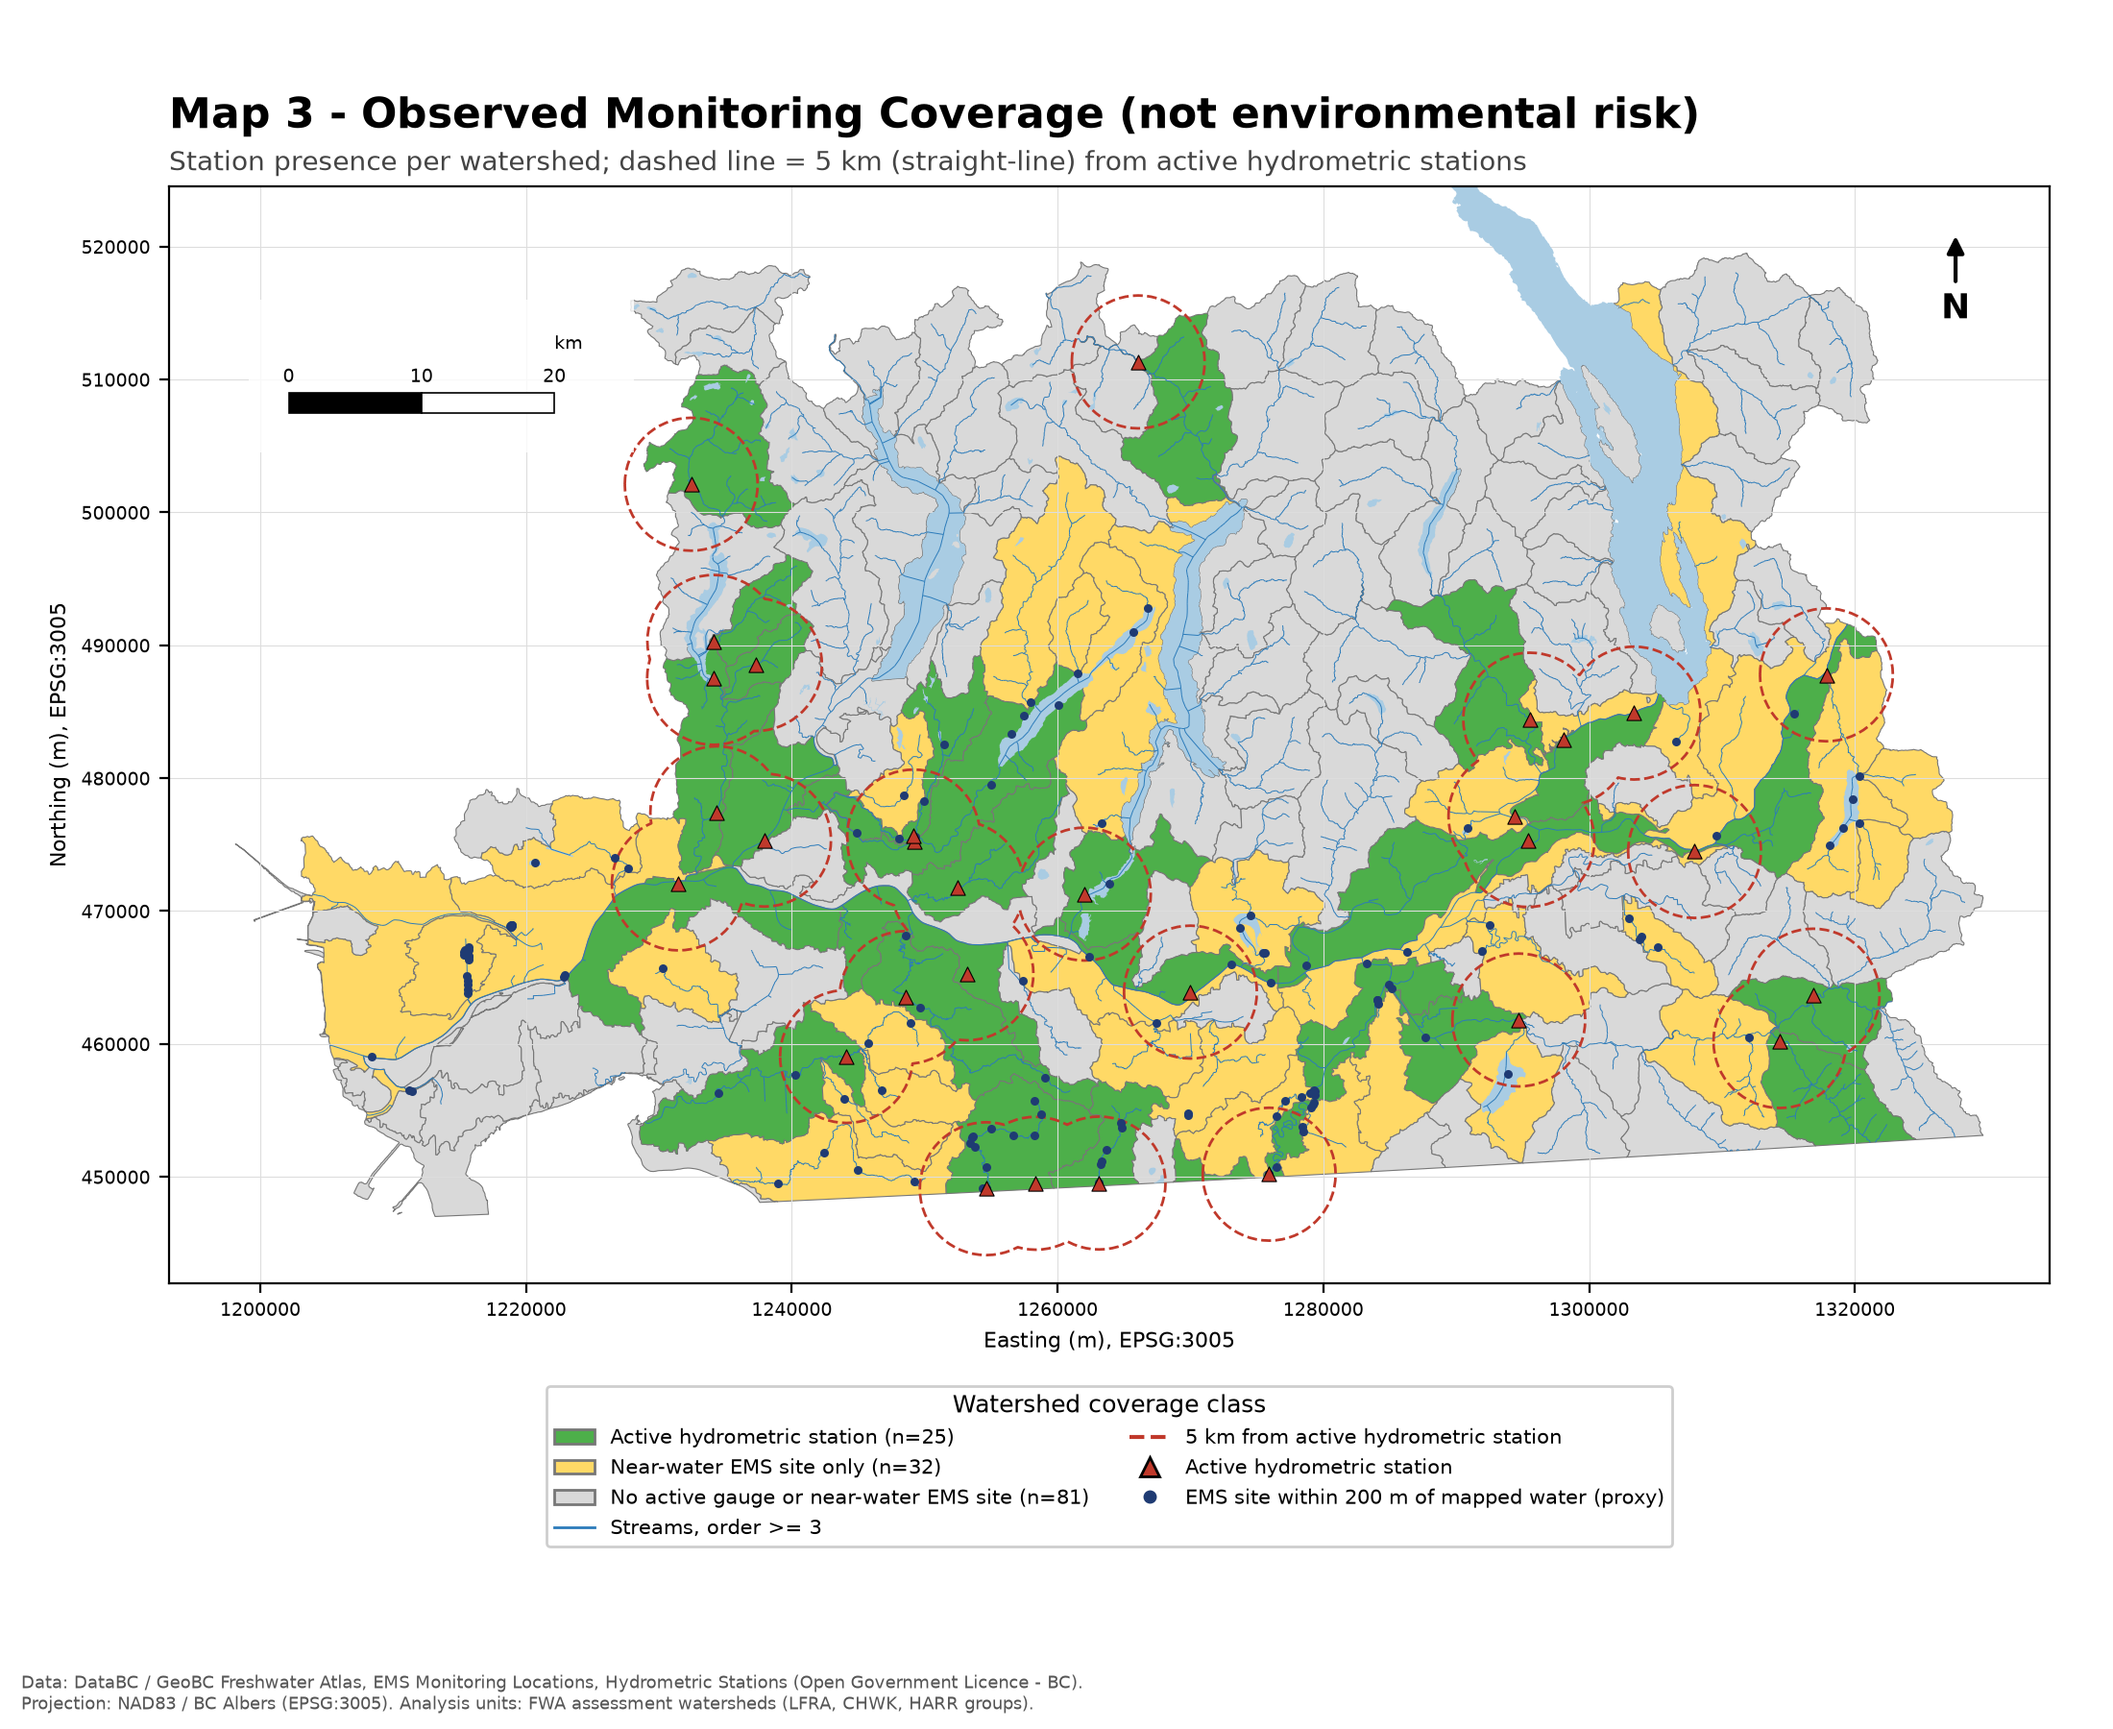
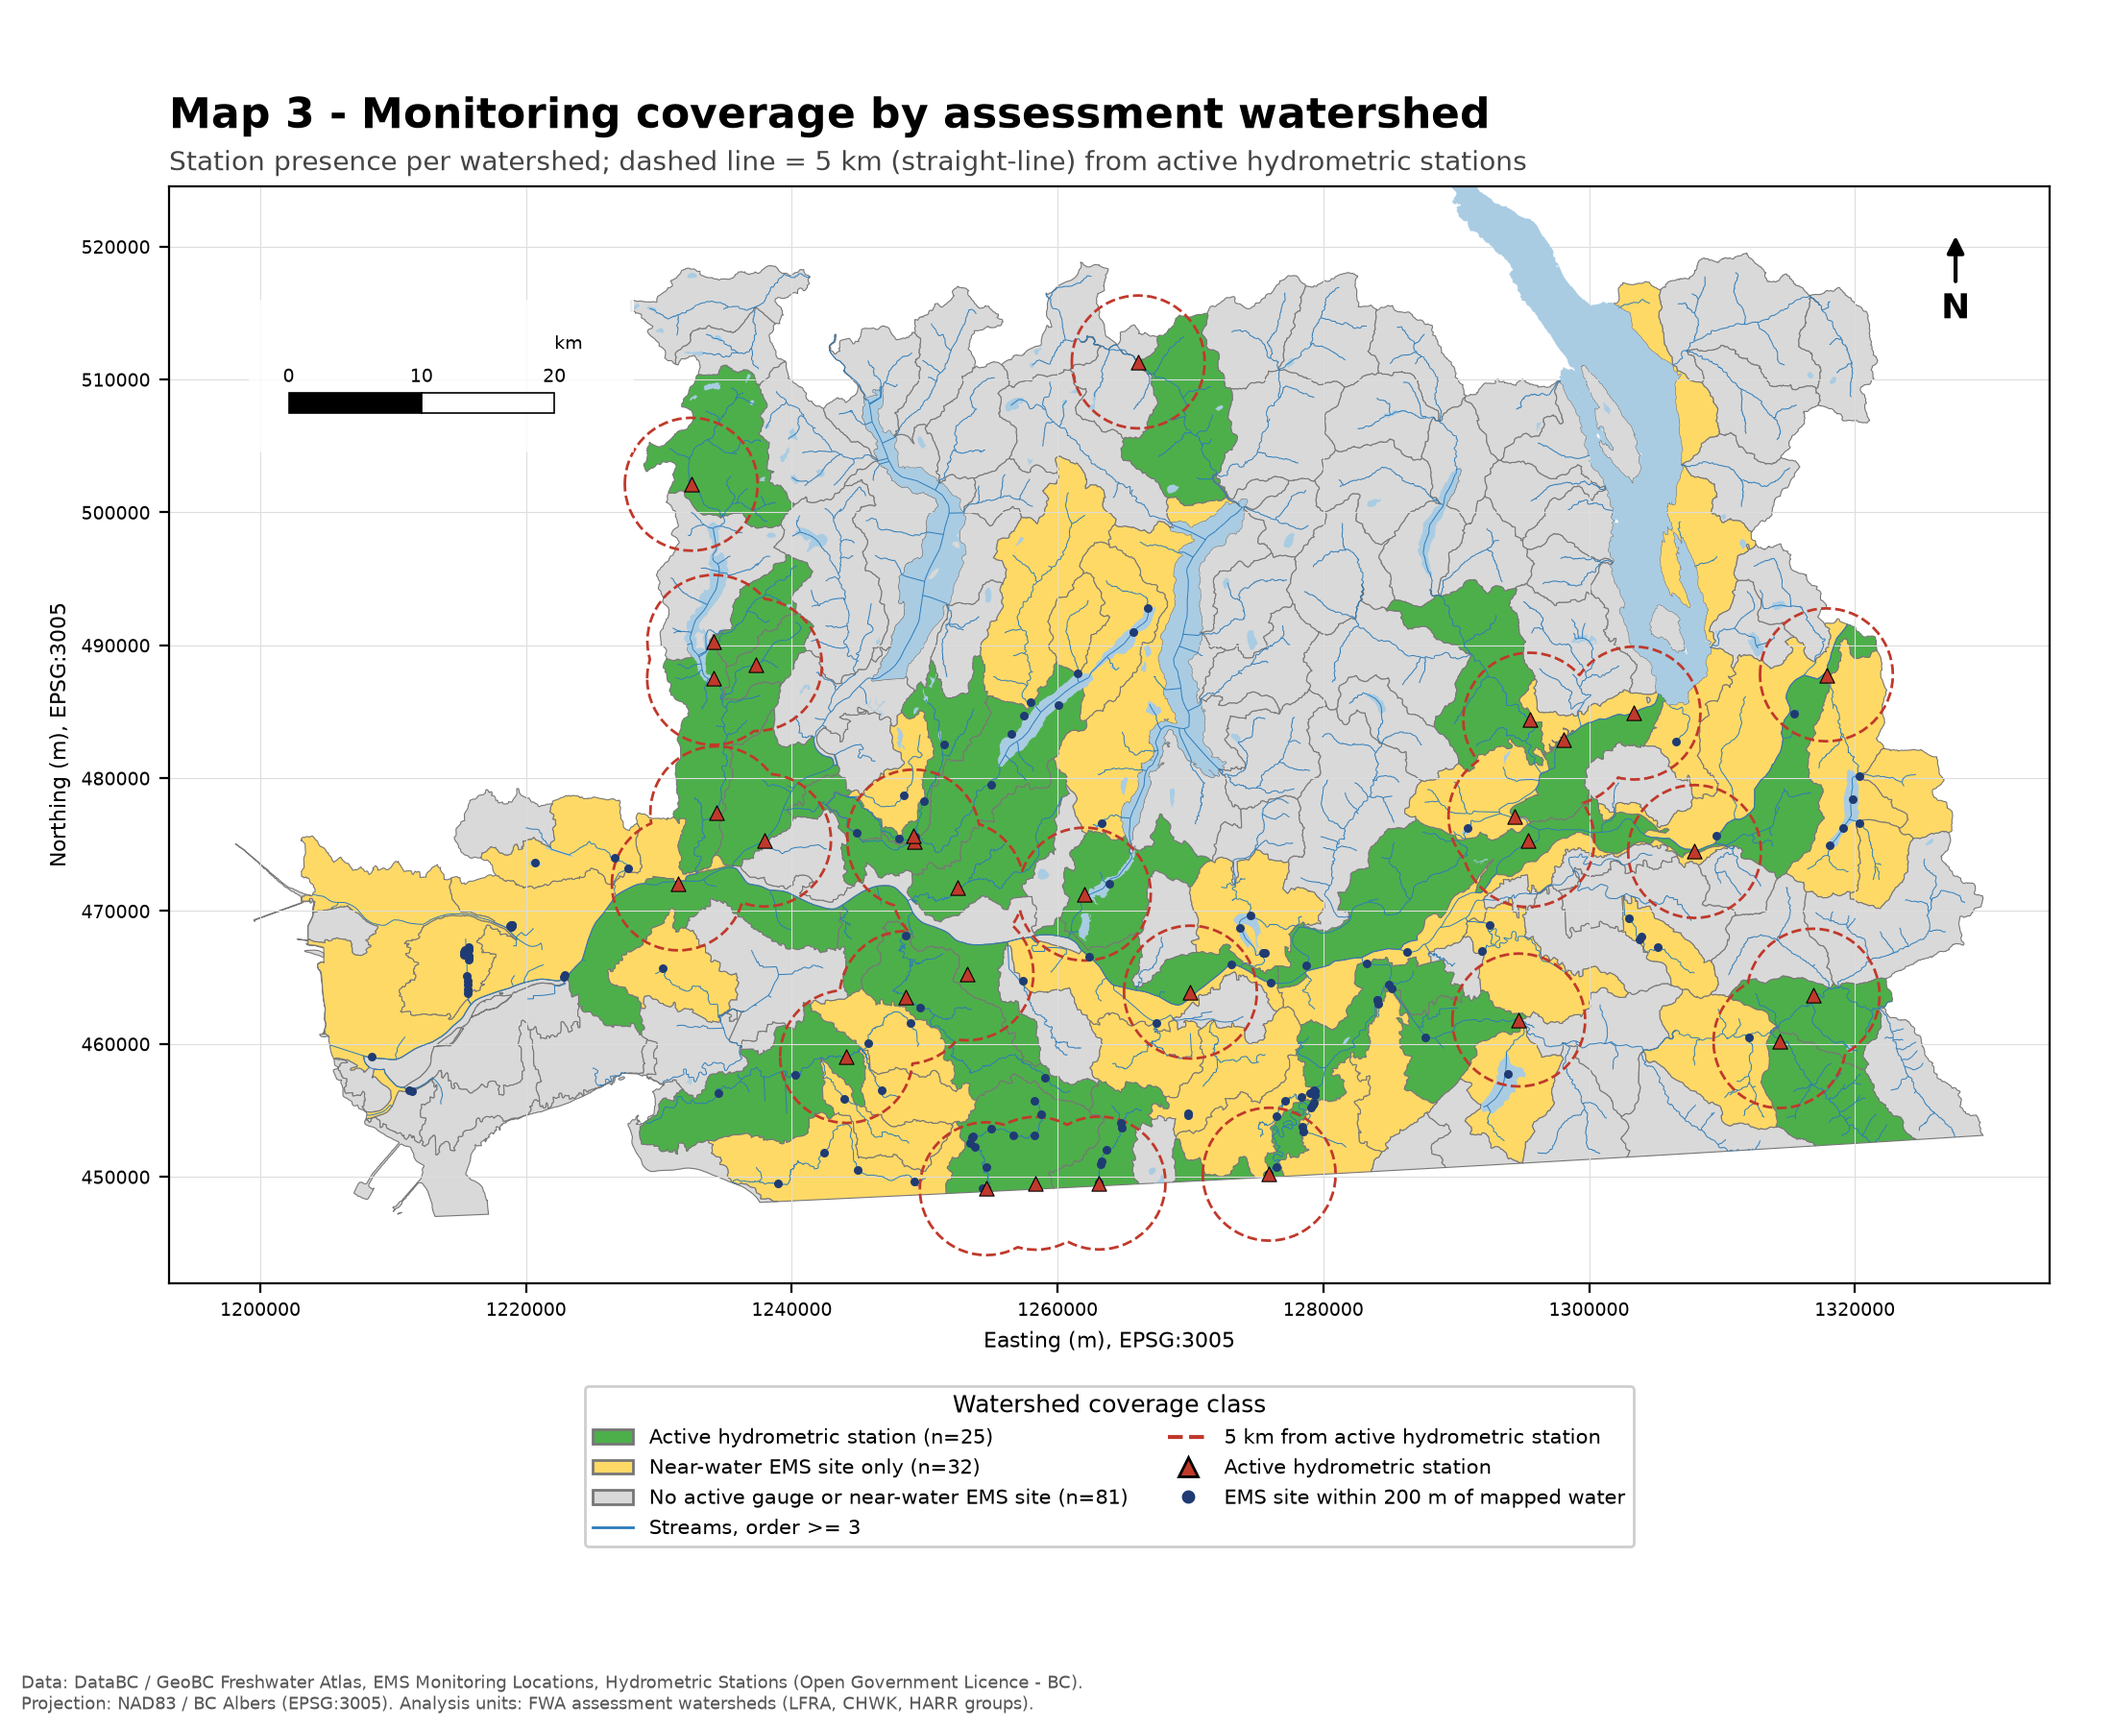
Remove unused code, retitle Map 3, compute Fraser corridor share
Drop HYDRO_BUF_M, the unreported hydro_active_within5km_of_aoi_edge key,
and dead assignments in the map script. Map 3 and the Map 2 subtitle lose
the repeated disclaimer/proxy wording. summary.json gains fraser_corridor_5km
(share of area vs share of sites within 5 km of the Fraser mainstem), which
backs the README statement about the Fraser corridor. Other outputs unchanged.

Changed region(s): [[0.2473, 0.8089, 0.8036, 0.9022], [0.1545, 0.0622, 0.8036, 0.0933]]

diff --git a/scripts/02_analysis.py b/scripts/02_analysis.py
@@ -14,7 +14,6 @@ warnings.filterwarnings('ignore', message='.*keep_geom_type.*')  # line/polygon 
 BBOX = box(1170000, 430000, 1330000, 520000)         # download extent (same as script 01)
 GROUPS = ["LFRA", "CHWK", "HARR"]                    # Lower Fraser, Chilliwack, Harrison
 RECENT_FROM = pd.Timestamp("2016-01-01")             # EMS "recently sampled" cut-off
-HYDRO_BUF_M = 1_000                                  # buffer for station footprint
 COVER_DIST_M = 5_000                                 # "stream within X km of a station"
 SW_PROX_M = 200                                      # EMS "near surface water" threshold
 
@@ -39,6 +38,7 @@ def main():
     # ---------- stations ----------
     ems = load("ems_locations")
     # CRS validation: reprojected geometry should reproduce the stored LATITUDE/LONGITUDE
+    # (EMS stores longitude as positive west, hence -abs())
     ll = ems.to_crs(4326)
     ems["coord_err_m"] = gpd.GeoSeries(gpd.points_from_xy(ll.geometry.x, ll.geometry.y), crs=4326).to_crs(CRS).distance(
         gpd.GeoSeries(gpd.points_from_xy(-ems.LONGITUDE.abs(), ems.LATITUDE), crs=4326).to_crs(CRS))
@@ -61,7 +61,7 @@ def main():
     streams = streams[streams.geom_type.isin(["LineString", "MultiLineString"])]
     lakes = lakes_full[lakes_full.intersects(aoi)].copy()
 
-    # ---------- proximity: EMS near mapped surface water (PROXY for surface-water sites) ----------
+    # ---------- proximity: EMS sites near mapped surface water ----------
     water = pd.concat([streams_full.geometry, lakes_full.geometry]).union_all()   # unclipped: no edge loss
     ems_q_bbox["dist_water_m"] = ems_q_bbox.distance(water)
     ems_q_bbox["near_sw"] = ems_q_bbox.dist_water_m <= SW_PROX_M
@@ -115,12 +115,11 @@ def main():
         j = gpd.sjoin_nearest(cen, pts[["geometry"]], distance_col="d")
         ws[f"nearest_{name}_km"] = ws.ws_id.map(j.drop_duplicates("ws_id").set_index("ws_id").d / 1000)
 
-    # classification of OBSERVED station coverage (not risk, not water quality)
+    # coverage class per watershed
     ws["coverage_class"] = np.select(
         [ws.n_hydro_active > 0, ws.n_ems_sw > 0],
         ["Active hydrometric station", "Near-water EMS site only"],
         default="No active gauge or near-water EMS site")
-    edge = gpd.GeoSeries([aoi], crs=CRS).boundary.iloc[0]
 
     # ---------- write outputs ----------
     gpkg = PROC / "analysis.gpkg"
@@ -129,6 +128,12 @@ def main():
                      lakes=lakes[["GNIS_NAME_1", "AREA_HA", "geometry"]], aoi=gpd.GeoDataFrame(geometry=[aoi], crs=CRS)).items():
         g.to_file(gpkg, layer=n, driver="GPKG")
     ws.drop(columns="geometry").round(3).to_csv(OUT / "watershed_coverage.csv", index=False)
+
+    # ---------- Fraser corridor: share of distinct sites vs share of area within 5 km of the Fraser mainstem ----------
+    fraser_zone = streams_full[streams_full.GNIS_NAME == "Fraser River"].buffer(COVER_DIST_M).union_all()
+    sites = pd.concat([hyd_act.geometry, ems_sw[~ems_sw.colocated_gauge].geometry])
+    fraser = dict(area_pct=round(ws.intersection(fraser_zone).area.sum() / ws.area.sum() * 100, 1),
+                  sites_pct=round(sites.within(fraser_zone).mean() * 100, 1), n_sites=len(sites))
 
     # ---------- summary & validation report ----------
     tot = ws.stream_km.sum()
@@ -142,7 +147,6 @@ def main():
         ems_null_last_sample_date_in_bbox=int(ems.LAST_SAMPLE_DATE.isna().sum()),
         hydro_in_aoi=len(hyd), hydro_active_in_aoi=len(hyd_act),
         hydro_active_in_bbox_outside_aoi=len(hyd_act_bbox) - len(hyd_act),
-        hydro_active_within5km_of_aoi_edge=int((hyd_act.distance(edge) <= COVER_DIST_M).sum()),
         stream_km_order3plus=round(tot, 1), lakes_ge10ha=len(lakes),
         ws_with_active_gauge=int((ws.n_hydro_active > 0).sum()),
         ws_near_water_ems_only=int(((ws.n_hydro_active == 0) & (ws.n_ems_sw > 0)).sum()),
@@ -155,6 +159,7 @@ def main():
         overall_dens_per100km2={"active_hydrometric": round(ws.n_hydro_active.sum() / ws.area_km2.sum() * 100, 3),
                                 "near_water_ems": round(ws.n_ems_sw.sum() / ws.area_km2.sum() * 100, 3),
                                 "distinct_sites_combined": round(ws.n_sites_comb.sum() / ws.area_km2.sum() * 100, 3)},
+        fraser_corridor_5km=fraser,
         median_dens_combined_per100km2=round(ws.dens_sites_comb.median(), 3),
         small_units_lt5km2=ws.loc[ws.small_unit, "ws_name"].tolist(),
         ems_near_water_sensitivity={f"{d}m": int((ems_q.dist_water_m <= d).sum()) for d in (50, 100, 200, 500, 1000)},

diff --git a/scripts/03_make_maps.py b/scripts/03_make_maps.py
@@ -53,7 +53,7 @@ def save(fig, name):
 fig, ax = frame("Map 1 - Study Area, Hydrography and Monitoring Stations",
                 "Lower Mainland / Fraser Valley: Lower Fraser, Chilliwack and Harrison watershed groups")
 base(ax)
-st.assign(w=0.3 + 0.35 * (st.STREAM_ORDER - 3)).plot(ax=ax, color=BLUE, linewidth=st.STREAM_ORDER.sub(3).mul(.35).add(.3), zorder=3)
+st.plot(ax=ax, color=BLUE, linewidth=st.STREAM_ORDER.sub(3).mul(.35).add(.3), zorder=3)
 ws.boundary.plot(ax=ax, color="#7a7a7a", lw=0.4, zorder=4)
 ems.plot(ax=ax, color="#e08a1e", markersize=7, alpha=.7, zorder=5)
 hy[~hy.index.isin(hya.index)].plot(ax=ax, color="#888", marker="^", markersize=14, zorder=6)
@@ -69,12 +69,11 @@ furniture(ax); save(fig, "01_study_area_stations.png")
 
 # ---- Map 2: station density choropleth
 fig, ax = frame("Map 2 - Monitoring-Station Density by Assessment Watershed",
-                "Distinct sites per 100 km2: active hydrometric stations + recent EMS sites within 200 m of mapped water (proxy)")
-bins = [0, 1e-9, 1, 2, 5, 1e9]; labels = ["0 (none)", "> 0 to 1", "1 to 2", "2 to 5", "> 5"]
+                "Distinct sites per 100 km2: active hydrometric stations + recent EMS sites within 200 m of mapped water")
+labels = ["0 (none)", "> 0 to 1", "1 to 2", "2 to 5", "> 5"]
 cols = ["#f7f7f7", "#fee8c8", "#fdbb84", "#e34a33", "#7f0000"]
-cat = np.digitize(ws.dens_sites_comb, bins[1:-1], right=False)
 cat = np.where(ws.dens_sites_comb == 0, 0, np.clip(np.digitize(ws.dens_sites_comb, [1, 2, 5]) + 1, 1, 4))
-ws.assign(c=[cols[i] for i in cat]).plot(ax=ax, color=[cols[i] for i in cat], ec="#777", lw=.4, zorder=1)
+ws.plot(ax=ax, color=[cols[i] for i in cat], ec="#777", lw=.4, zorder=1)
 lk.plot(ax=ax, fc="#a9cce3", ec="none", zorder=2)
 emsw.plot(ax=ax, color="#1f3b73", markersize=6, zorder=5); hya.plot(ax=ax, color="k", marker="^", markersize=26, zorder=6)
 ax.legend(handles=[Patch(fc=c, ec="#777", label=l) for c, l in zip(cols, labels)] + [
@@ -85,7 +84,7 @@ ax.legend(handles=[Patch(fc=c, ec="#777", label=l) for c, l in zip(cols, labels)
 furniture(ax); save(fig, "02_station_density.png")
 
 # ---- Map 3: observed coverage & 5 km buffers
-fig, ax = frame("Map 3 - Observed Monitoring Coverage (not environmental risk)",
+fig, ax = frame("Map 3 - Monitoring coverage by assessment watershed",
                 "Station presence per watershed; dashed line = 5 km (straight-line) from active hydrometric stations")
 cmap = {"Active hydrometric station": "#4daf4a", "Near-water EMS site only": "#ffd966",
         "No active gauge or near-water EMS site": "#d9d9d9"}
@@ -100,6 +99,6 @@ ax.legend(handles=[Patch(fc=c, ec="#777", label=f"{k} (n={n.get(k,0)})") for k, 
     Line2D([], [], color=BLUE, lw=1, label="Streams, order >= 3"),
     Line2D([], [], color="#c0392b", ls="--", label="5 km from active hydrometric station"),
     Line2D([], [], marker="^", ls="", color="#c0392b", mec="k", ms=7, label="Active hydrometric station"),
-    Line2D([], [], marker="o", ls="", color="#1f3b73", ms=4, label="EMS site within 200 m of mapped water (proxy)")],
+    Line2D([], [], marker="o", ls="", color="#1f3b73", ms=4, label="EMS site within 200 m of mapped water")],
     loc="upper center", bbox_to_anchor=(0.5, -0.085), ncol=2, fontsize=7.5, title="Watershed coverage class", title_fontsize=9, framealpha=.95).set_zorder(20)
 furniture(ax); save(fig, "03_coverage_buffers.png")
